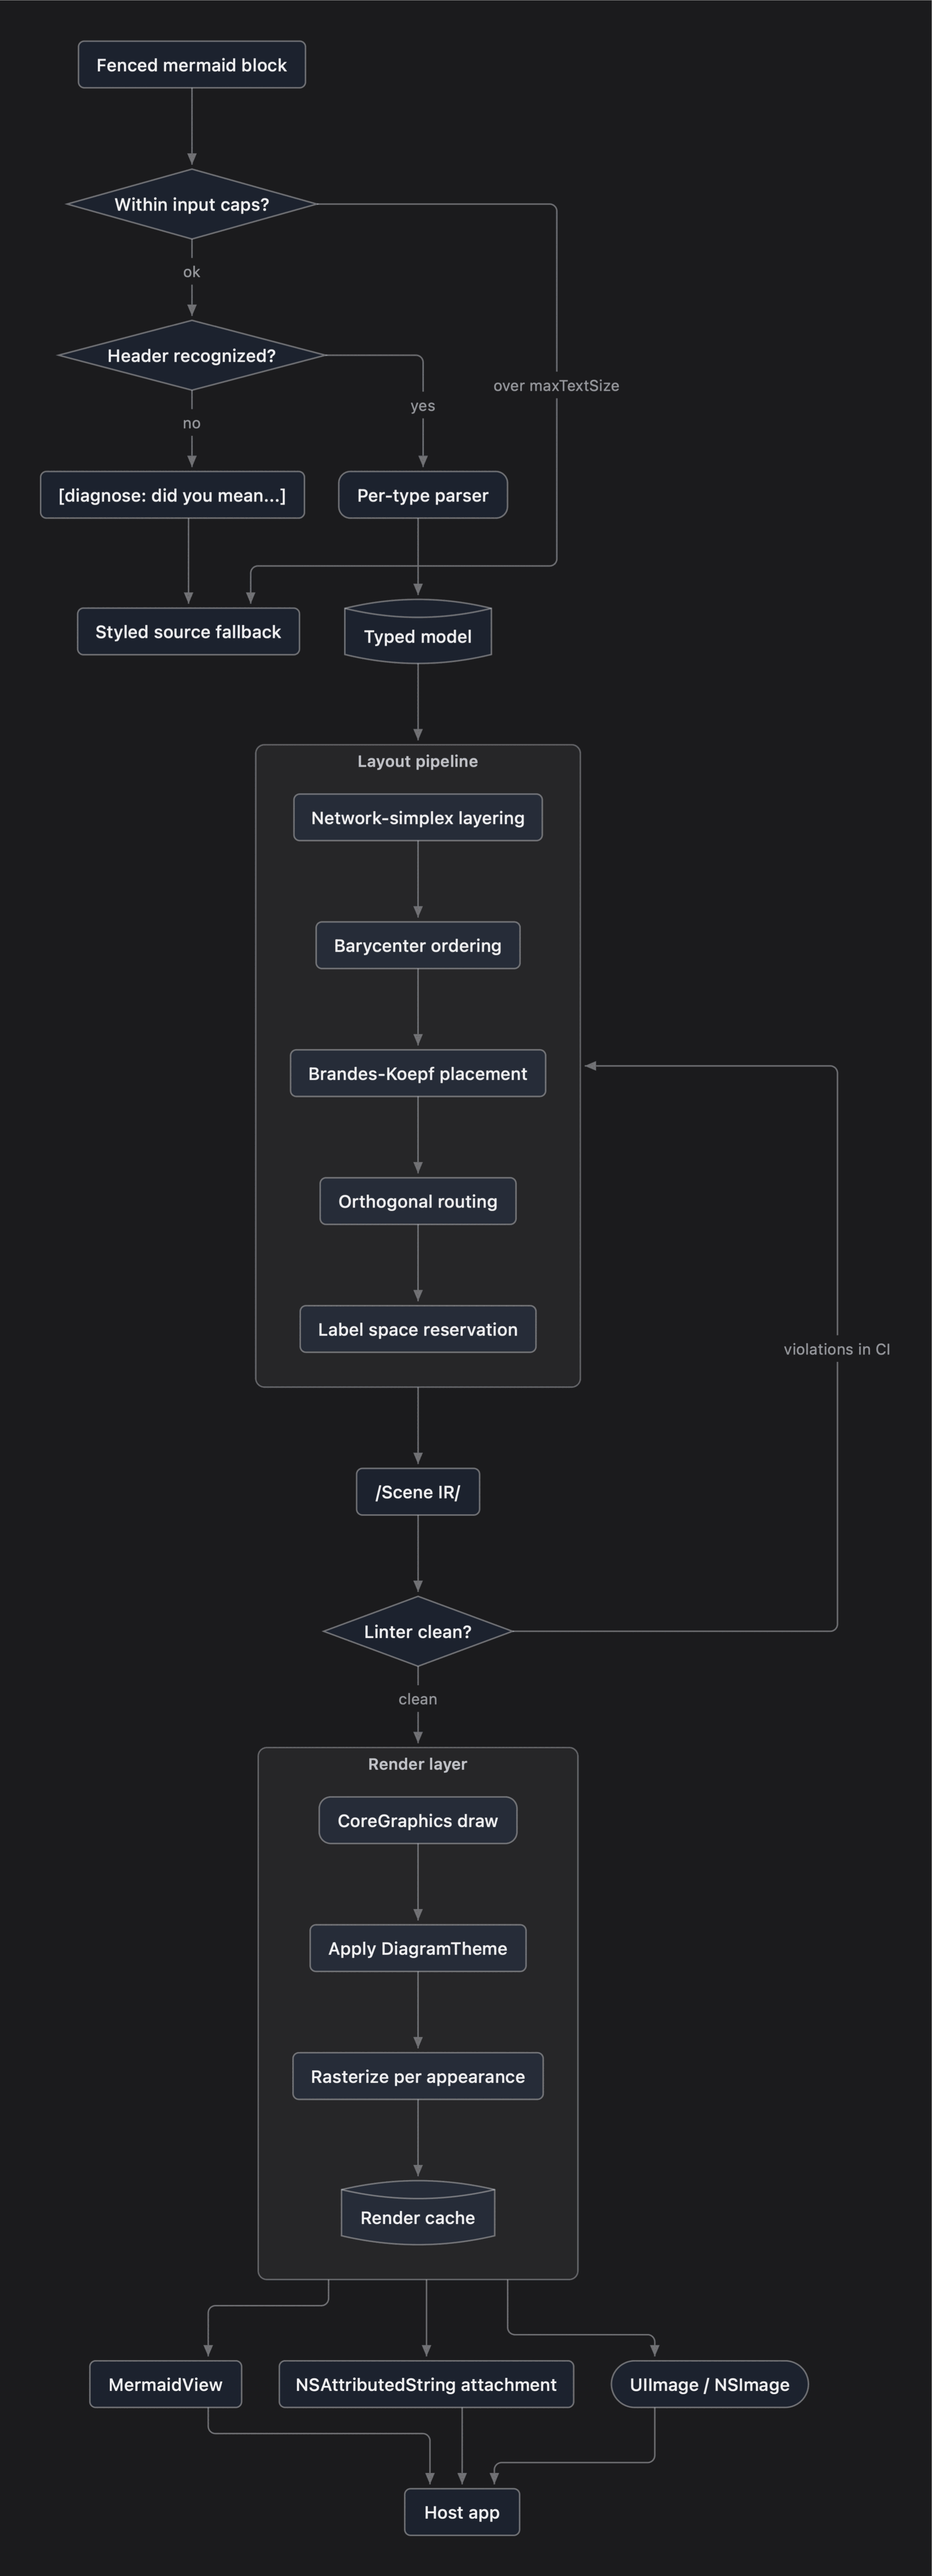
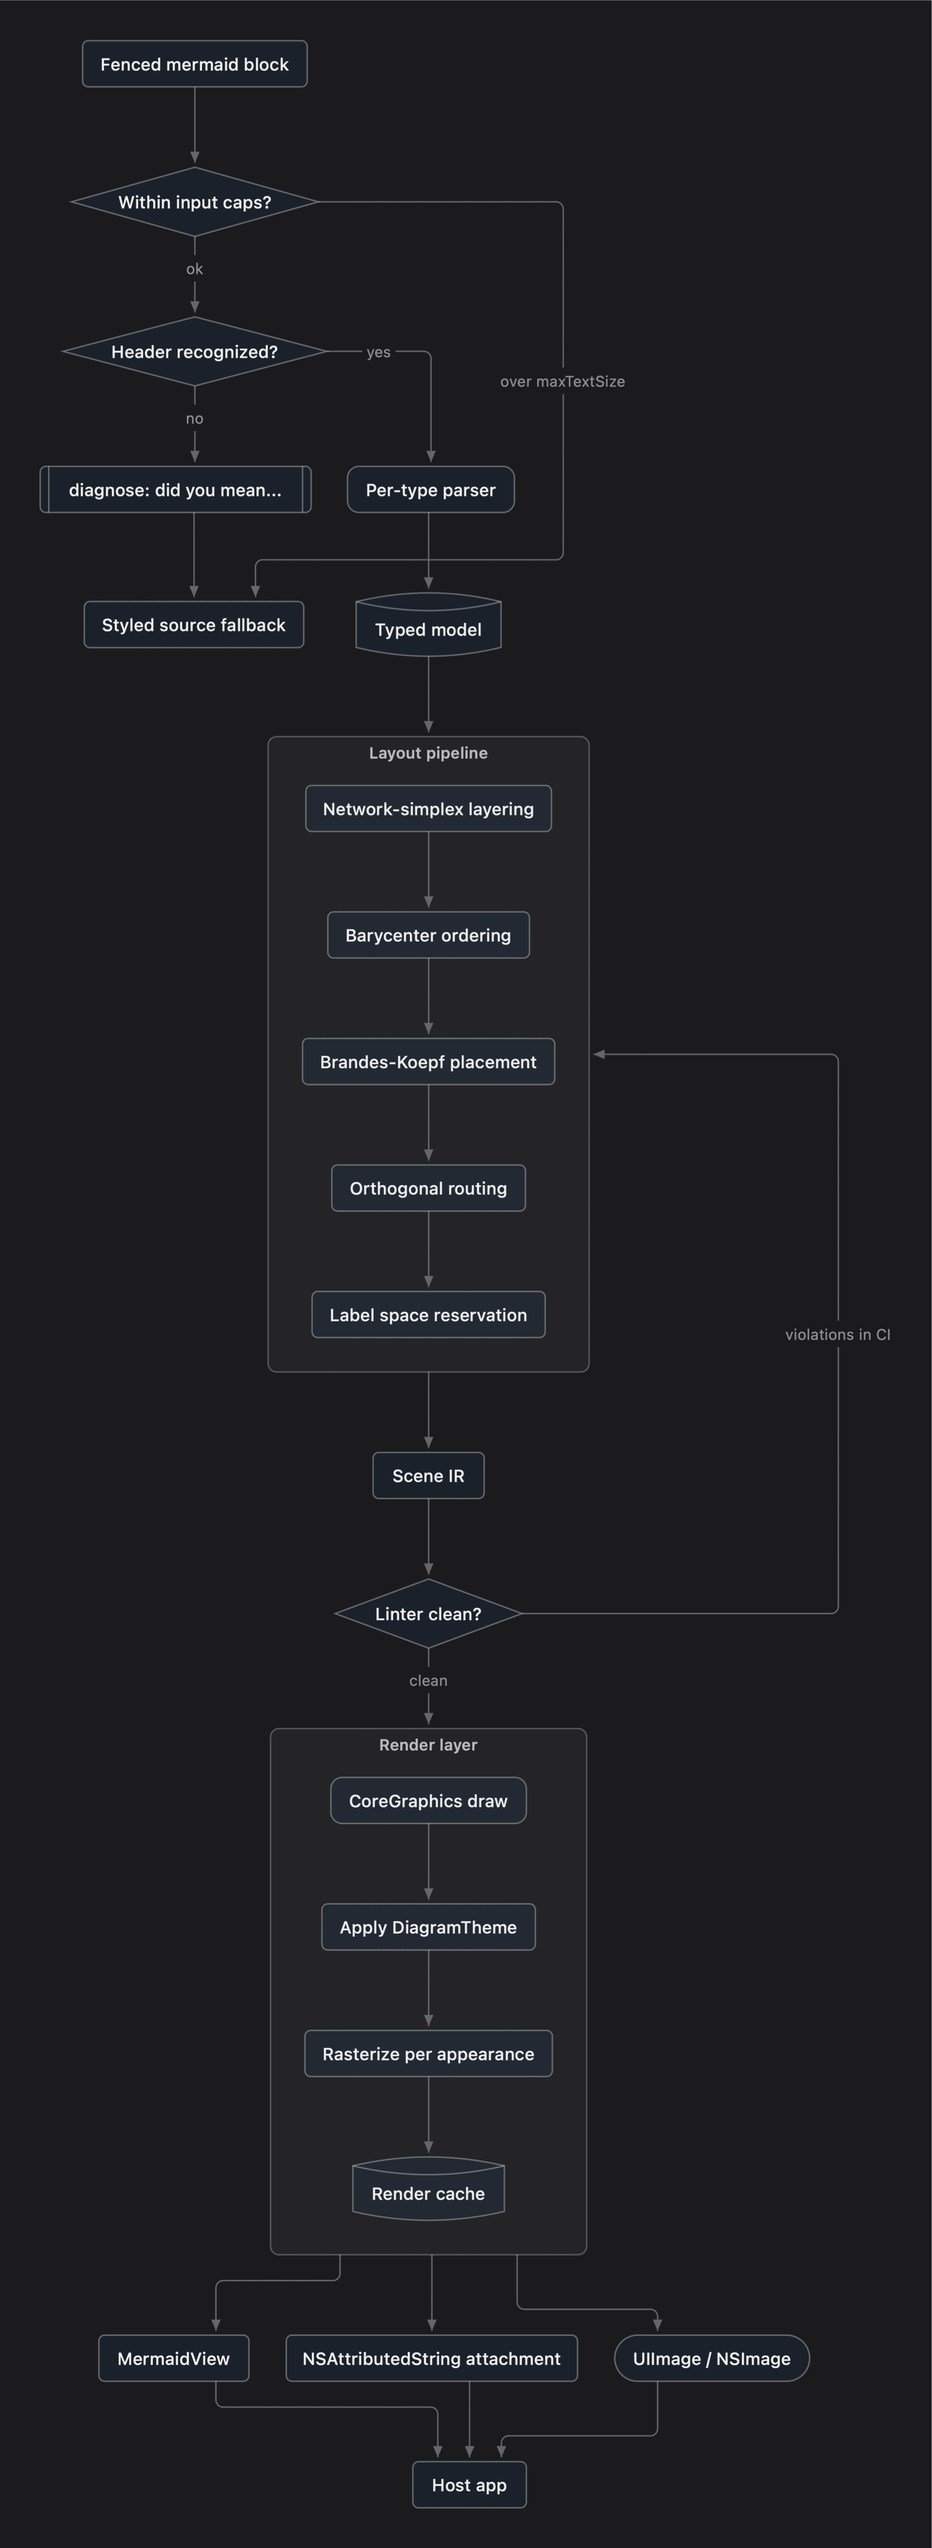
Flowchart syntax coverage: ids with - and ., {{hexagon}}, [[subroutine]], @{…} shape data (#65)
* Flowchart syntax coverage: ids with - and ., {{hexagon}}, [[subroutine]], @{…} shape data

Flowcharts written by coding agents kept losing lines: parseNodeToken read
ids as word characters only and knew six bracket forms, so any endpoint it
couldn't read failed its whole edge line, and the line vanished.

- Ids may contain `-` and `.` between word characters (`api-gateway`,
  `auth.service`), as in mermaid. Connectors are split off first, so `-->`
  and `-.->` are unaffected.
- `{{label}}` is a hexagon and `[[label]]` a subroutine (both model cases
  existed; the single-bracket forms matched first and kept a bracket in the
  label).
- `id@{ shape: …, label: … }`: mermaid's named shapes map onto the model's
  cases; unknown names are rectangles; quoted commas stay in the label.
- Shapes without a model case keep their label instead of the delimiters:
  `(((…)))` is a circle, `[/…/]`, `[\…\]`, `[/…\]`, `[\…/]` and `>…]` are
  rectangles. No new NodeShape cases (that would be semver-major).

The flowchart fixture used two of these (`DIAG[[diagnose…]]`,
`SCENE[/Scene IR/]`), so its README images are regenerated, and its
grid-alignment floor is measured again (0.21 → 0.16): the old reading was of
the mis-parsed chart.

* Doc comments on the functions #65 touches (CodeRabbit docstring check)

The new tests' explanations move from inline comments into doc comments,
and the parser's nested helpers and testGarbageBodies get one. No code
change.
[…]

diff --git a/Sources/MermaidLayout/MermaidParser.swift b/Sources/MermaidLayout/MermaidParser.swift
@@ -423,7 +423,8 @@ public enum MermaidParser {
     }
 
     /// Splits an endpoint list on `&` at bracket depth 0 only, so labels
-    /// like `A[Tom & Jerry]` stay intact.
+    /// like `A[Tom & Jerry]` stay intact. Depth floors at 0: the asymmetric
+    /// `id>Flag]` closes a bracket it never opened.
     private static func splitEndpoints(_ text: String) -> [Substring] {
         var parts: [Substring] = []
         var depth = 0
@@ -431,7 +432,7 @@ public enum MermaidParser {
         for i in text.indices {
             switch text[i] {
             case "[", "(", "{": depth += 1
-            case "]", ")", "}": depth -= 1
+            case "]", ")", "}": depth = max(0, depth - 1)
             case "&" where depth == 0:
                 parts.append(text[start..<i])
                 start = text.index(after: i)
@@ -501,7 +502,12 @@ public enum MermaidParser {
     }
 
     /// Parses `id`, `id[Label]`, `id(Label)`, `id([Label])`, `id{Label}`,
-    /// `id((Label))`.
+    /// `id((Label))`, `id[(Label)]`, `id[[Label]]`, `id{{Label}}`, and the
+    /// `id@{ shape: …, label: … }` shape-data form. Ids may contain `-` and `.`
+    /// between word characters (`api-gateway`, `auth.service`), as in mermaid.
+    /// Shapes the model has no case for degrade to the nearest one with the
+    /// label intact: `(((double circle)))` to a circle, the slanted
+    /// `[/…/]`/`[\…\]`/`[/…\]`/`[\…/]` and the asymmetric `>…]` to rectangles.
     static func parseNodeToken(_ token: Substring) -> Flowchart.Node? {
         var trimmed = token.trimmingCharacters(in: .whitespaces)
         // `:::className` binds a style class — styling we ignore; without
@@ -511,16 +517,29 @@ public enum MermaidParser {
         }
         guard !trimmed.isEmpty else { return nil }
 
+        /// A character an id is made of; `-` and `.` only join two of these.
+        func isWord(_ c: Character) -> Bool { c.isLetter || c.isNumber || c == "_" }
         var id = ""
         var index = trimmed.startIndex
-        while index < trimmed.endIndex,
-              trimmed[index].isLetter || trimmed[index].isNumber || trimmed[index] == "_" {
-            id.append(trimmed[index])
-            index = trimmed.index(after: index)
+        while index < trimmed.endIndex {
+            let c = trimmed[index]
+            let next = trimmed.index(after: index)
+            if isWord(c) {
+                id.append(c)
+            } else if (c == "-" || c == "."), !id.isEmpty, next < trimmed.endIndex, isWord(trimmed[next]) {
+                // `api-gateway`, `auth.service`: a separator between word
+                // characters. Edge connectors are split off before this runs.
+                id.append(c)
+            } else {
+                break
+            }
+            index = next
         }
         guard !id.isEmpty else { return nil }
         let rest = String(trimmed[index...])
 
+        /// The label between `open` and `close` when they wrap the rest of the
+        /// token, quotes and padding trimmed; nil for another shape.
         func stripped(_ open: String, _ close: String) -> String? {
             guard rest.hasPrefix(open), rest.hasSuffix(close),
                   rest.count >= open.count + close.count else { return nil }
@@ -532,26 +551,74 @@ public enum MermaidParser {
         if rest.isEmpty {
             return Flowchart.Node(id: id, label: id, shape: .rectangle)
         }
-        if let label = stripped("((", "))") {
-            return Flowchart.Node(id: id, label: label, shape: .circle)
+        if rest.hasPrefix("@{"), rest.hasSuffix("}") {
+            return shapeDataNode(id: id, body: rest.dropFirst(2).dropLast())
         }
-        if let label = stripped("([", "])") {
-            return Flowchart.Node(id: id, label: label, shape: .stadium)
-        }
-        if let label = stripped("[(", ")]") {
-            return Flowchart.Node(id: id, label: label, shape: .cylinder)
-        }
-        if let label = stripped("[", "]") {
-            return Flowchart.Node(id: id, label: label, shape: .rectangle)
-        }
-        if let label = stripped("(", ")") {
-            return Flowchart.Node(id: id, label: label, shape: .rounded)
-        }
-        if let label = stripped("{", "}") {
-            return Flowchart.Node(id: id, label: label, shape: .diamond)
+        // Longest delimiters first, so `{{` isn't read as `{` with a brace in
+        // the label.
+        let shapes: [(open: String, close: String, shape: Flowchart.NodeShape)] = [
+            ("(((", ")))", .circle), ("((", "))", .circle), ("([", "])", .stadium),
+            ("[(", ")]", .cylinder), ("[[", "]]", .subroutine), ("{{", "}}", .hexagon),
+            ("[/", "/]", .rectangle), ("[\\", "\\]", .rectangle),
+            ("[/", "\\]", .rectangle), ("[\\", "/]", .rectangle),
+            ("[", "]", .rectangle), ("(", ")", .rounded), ("{", "}", .diamond),
+            (">", "]", .rectangle),
+        ]
+        for (open, close, shape) in shapes {
+            if let label = stripped(open, close) {
+                return Flowchart.Node(id: id, label: label, shape: shape)
+            }
         }
         return nil
     }
+
+    /// `id@{ shape: diam, label: "Decide" }` — mermaid's newer shape syntax.
+    /// Named shapes map onto the model's; ones it has no case for (and an
+    /// unknown name) are rectangles. Without a `label`, the id is the label.
+    private static func shapeDataNode(id: String, body: Substring) -> Flowchart.Node {
+        var fields: [String] = []
+        var current = ""
+        var quoted = false
+        for c in body {
+            if c == "\"" { quoted.toggle() }
+            if c == ",", !quoted {
+                fields.append(current)
+                current = ""
+            } else {
+                current.append(c)
+            }
+        }
+        fields.append(current)
+        var label = id
+        var shape = Flowchart.NodeShape.rectangle
+        for field in fields {
+            guard let colon = field.firstIndex(of: ":") else { continue }
+            let key = field[..<colon].trimmingCharacters(in: .whitespaces)
+            let value = field[field.index(after: colon)...]
+                .trimmingCharacters(in: .whitespaces)
+                .trimmingCharacters(in: CharacterSet(charactersIn: "\""))
+            switch key {
+            case "label" where !value.isEmpty: label = value
+            case "shape": shape = shapeNames[value.lowercased()] ?? .rectangle
+            default: break
+            }
+        }
+        return Flowchart.Node(id: id, label: label, shape: shape)
+    }
+
+    /// Mermaid's shape names (and aliases) that have a model case.
+    private static let shapeNames: [String: Flowchart.NodeShape] = [
+        "rect": .rectangle, "rectangle": .rectangle, "proc": .rectangle, "process": .rectangle,
+        "rounded": .rounded, "event": .rounded,
+        "stadium": .stadium, "pill": .stadium, "terminal": .stadium,
+        "diam": .diamond, "diamond": .diamond, "decision": .diamond, "question": .diamond,
+        "circle": .circle, "circ": .circle, "dbl-circ": .circle, "double-circle": .circle,
+        "cyl": .cylinder, "cylinder": .cylinder, "database": .cylinder, "db": .cylinder,
+        "hex": .hexagon, "hexagon": .hexagon, "prepare": .hexagon,
+        "subproc": .subroutine, "subprocess": .subroutine, "subroutine": .subroutine,
+        "fr-rect": .subroutine, "framed-rectangle": .subroutine,
+    ]
+
 
     // MARK: State
 

diff --git a/Tests/MermaidLayoutTests/ParserHonestyTests.swift b/Tests/MermaidLayoutTests/ParserHonestyTests.swift
@@ -103,6 +103,59 @@ final class ParserHonestyTests: XCTestCase {
         XCTAssertEqual(c.edges.count, 1, "edge id must not kill the line")
     }
 
+    /// Ids with `-` and `.` between word characters. The whole line used to
+    /// vanish: `api-gateway` stopped at `api`, failing the endpoint.
+    func testIdsWithDashesAndDots() throws {
+        let c = try flow("api-gateway[API gateway] --> auth.service[Auth] --> db[(Postgres)]")
+        XCTAssertEqual(c.nodes.map(\.id), ["api-gateway", "auth.service", "db"])
+        XCTAssertEqual(c.nodes.first?.label, "API gateway")
+        XCTAssertEqual(c.edges.count, 2)
+    }
+
+    /// `{{…}}` and `[[…]]`. `{{Redis}}` was a diamond labelled "{Redis}", and
+    /// `[[Worker]]` a rectangle labelled "[Worker]".
+    func testHexagonAndSubroutine() throws {
+        let c = try flow("cache{{Redis}} --> sub[[Worker]]")
+        XCTAssertEqual(c.nodes.first { $0.id == "cache" }?.shape, .hexagon)
+        XCTAssertEqual(c.nodes.first { $0.id == "cache" }?.label, "Redis")
+        XCTAssertEqual(c.nodes.first { $0.id == "sub" }?.shape, .subroutine)
+        XCTAssertEqual(c.nodes.first { $0.id == "sub" }?.label, "Worker")
+    }
+
+    /// Mermaid's `id@{ shape: …, label: … }` form. The `@{…}` endpoint used to
+    /// drop the whole edge line.
+    func testShapeDataSyntax() throws {
+        let c = try flow("A[Start] --> B@{ shape: diam, label: \"Decide, then go\" }\nC@{ shape: cyl }\nD@{ label: \"Plain\" }")
+        let b = c.nodes.first { $0.id == "B" }
+        XCTAssertEqual(b?.shape, .diamond)
+        XCTAssertEqual(b?.label, "Decide, then go", "a quoted comma isn't a field separator")
+        XCTAssertEqual(c.edges.count, 1)
+        XCTAssertEqual(c.nodes.first { $0.id == "C" }?.shape, .cylinder)
+        XCTAssertEqual(c.nodes.first { $0.id == "C" }?.label, "C", "no label: the id")
+        XCTAssertEqual(c.nodes.first { $0.id == "D" }?.shape, .rectangle)
+        XCTAssertEqual(c.nodes.first { $0.id == "D" }?.label, "Plain")
+    }
+
+    /// Double circles, the slanted shapes and the asymmetric flag have no model
+    /// case: they degrade to the nearest one with the label intact, not the
+    /// delimiters.
+    func testShapesWithoutAModelCaseKeepTheirLabels() throws {
+        let c = try flow("a(((Done))) --> b>Flag] --> c[/In/] --> d[\\Out\\] --> e[/Wide\\] --> f[\\Narrow/]")
+        XCTAssertEqual(c.edges.count, 5)
+        XCTAssertEqual(c.nodes.map(\.label), ["Done", "Flag", "In", "Out", "Wide", "Narrow"])
+        XCTAssertEqual(c.nodes.first?.shape, .circle)
+        XCTAssertEqual(Set(c.nodes.dropFirst().map(\.shape)), [.rectangle])
+    }
+
+    /// `>…]` closes a bracket it never opened; inside an `&` fan that once
+    /// drove the splitter's depth negative, so the next `&` was swallowed
+    /// into the flag's label and its endpoint dropped.
+    func testFlagShapeInsideAFan() throws {
+        let c = try flow("a --> odd>Flag] & lean[/Input/]\nodd>Flag] & b --> c")
+        XCTAssertEqual(c.edges.count, 4)
+        XCTAssertEqual(Set(c.nodes.map(\.label)), ["a", "Flag", "Input", "b", "c"])
+    }
+
     // MARK: flowchart subgraphs
 
     /// Deterministic fake measurer for the layout-geometry assertions below.

diff --git a/Tests/MermaidLayoutTests/AdversarialInputTests.swift b/Tests/MermaidLayoutTests/AdversarialInputTests.swift
@@ -44,11 +44,18 @@ final class AdversarialInputTests: XCTestCase {
         }
     }
 
+    /// Nonsense bodies (and half-written node syntax) under real headers: the
+    /// pipeline returns, whatever it makes of them.
     func testGarbageBodies() {
         let garbage = [
             "{{{{{{{{", "))))((((", "-->", "--> --> -->", ":::::",
             "\u{0}\u{1}\u{2}", "🧜♀🧜♀🧜♀", "＜＞〔〕", "علامة تجريبية",
             "a\u{202E}b", String(repeating: "|", count: 500),
+            // Node-token syntax: shape data, doubled and slanted brackets, ids
+            // that are all separators.
+            "A@{", "A@{}", "A@{ shape: }", "A@{ shape: diam, label: \"unterminated }",
+            "A@{ , , : , }", "A{{", "A}}", "A[[x]", "A[/", "A[/x\\", "A>", "A>x] & B>y] & ]]] & C", "] & ) & }","-.-.", "a-.-.b",
+            "a--b.c--d", "a.-b", ".a --> -b",
         ]
         for header in ["flowchart TD", "sequenceDiagram", "erDiagram", "gantt",
                        "sankey-beta", "xychart-beta", "gitGraph", "mindmap"] {

diff --git a/Tests/MermaidLayoutTests/GridAlignmentTests.swift b/Tests/MermaidLayoutTests/GridAlignmentTests.swift
@@ -26,7 +26,10 @@ final class GridAlignmentTests: XCTestCase {
     private let floors: [String: Double] = [
         // Measured under the geometry-only measurer above (see PRINT_GRID),
         // rounded down for a small jitter margin. These may only rise.
-        "flowchart": 0.21, "block": 0.08, "c4": 0.44,
+        // flowchart was 0.21 while the fixture's `[[diagnose…]]` and `[/Scene IR/]`
+        // parsed as rectangles with the brackets in their labels; measured again
+        // once they parsed as written (a subroutine, clean labels).
+        "flowchart": 0.16, "block": 0.08, "c4": 0.44,
         "architecture": 0.42, "er": 0.14, "class": 0.14, "state": 0.08,
     ]
 
